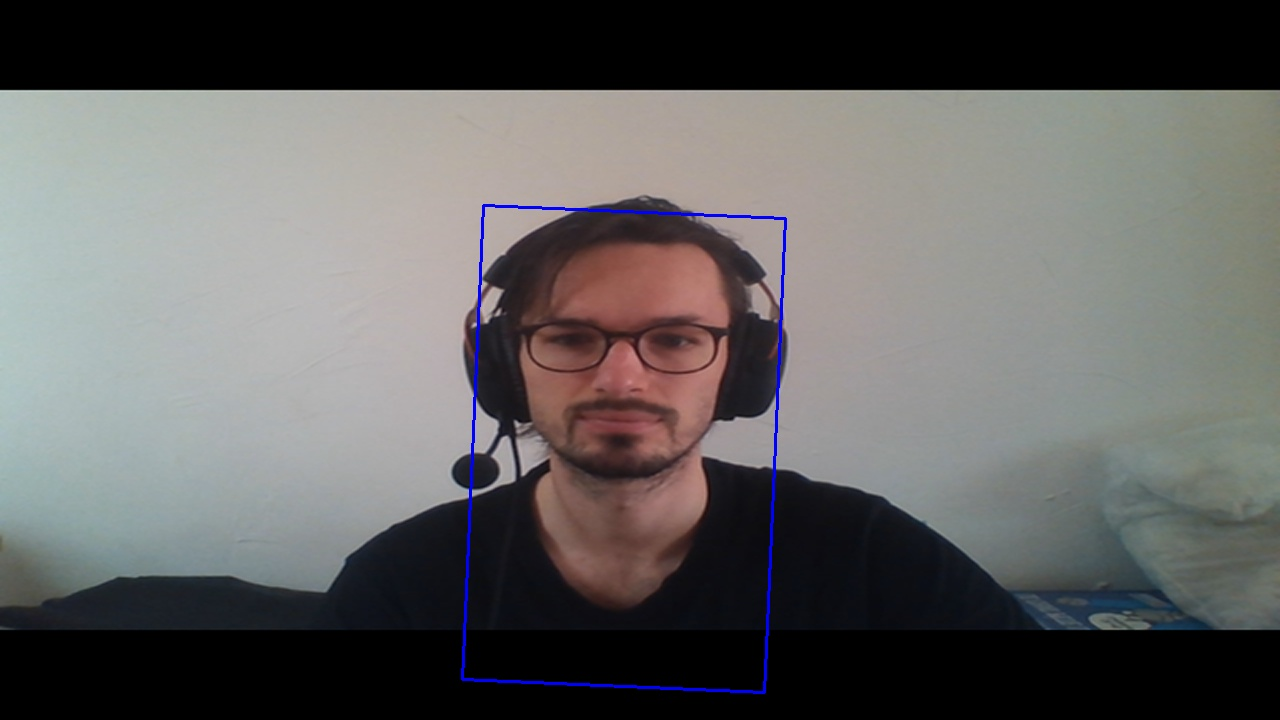
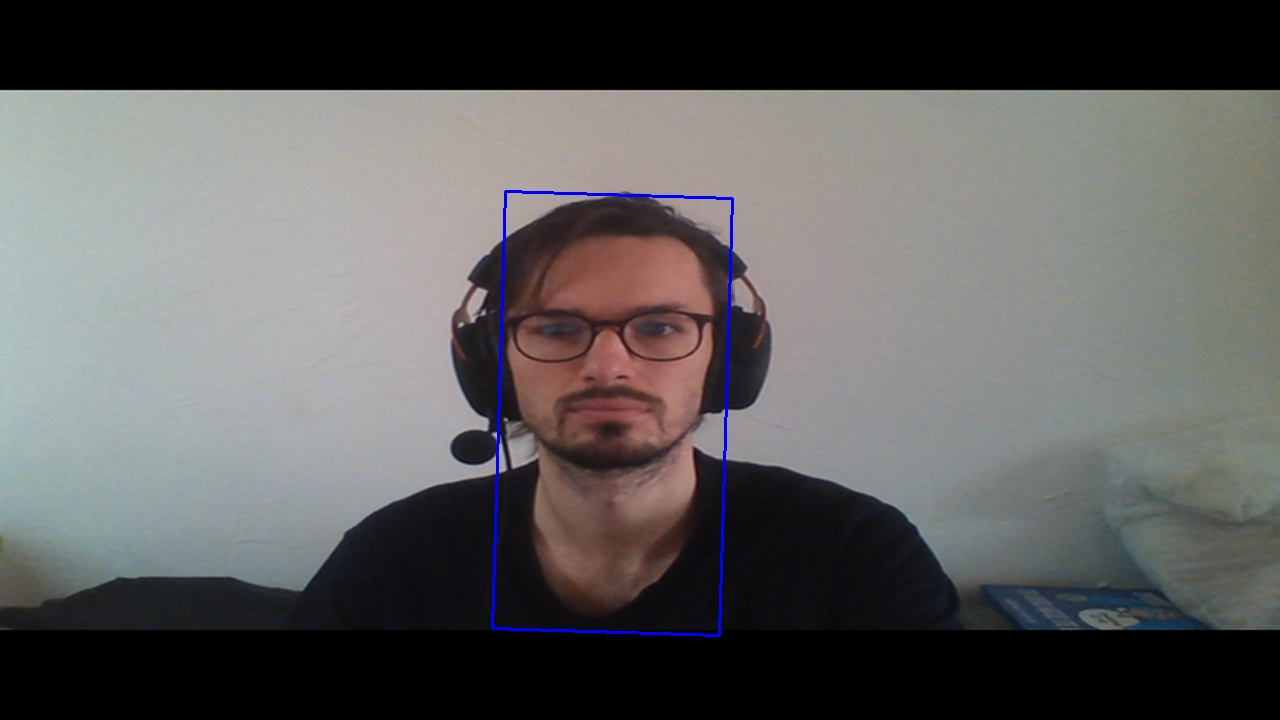
Modification de __init__.py

diff --git a/pretraitement/__init__.py b/pretraitement/__init__.py
@@ -8,13 +8,7 @@ Created on Tue May  5 10:10:18 2020
 import numpy as np 
 import cv2
 
-def pretraitement():
-    # read video 
-    cap = cv2.VideoCapture(0) 
-    # retrieve the very first  
-    # frame from the video
-    _, frame = cap.read()
-    
+def pretraitement(frame):    
        
     # set the region for the 
     # tracking window p, q, r, s 
@@ -46,9 +40,8 @@ def pretraitement():
     i = 0
     while(i<50):
         i = i+1
-        _, frame = cap.read()
-        frame = cv2.flip(frame, 1)
-        frame = cv2.resize(frame, (1280, 720), fx = 0, fy = 0, interpolation = cv2.INTER_CUBIC) 
+        #frame = cv2.flip(frame, 1)
+        #frame = cv2.resize(frame, (1280, 720), fx = 0, fy = 0, interpolation = cv2.INTER_CUBIC) 
         
         # convert BGR to HSV format 
         hsv = cv2.cvtColor(frame, cv2.COLOR_BGR2HSV)
@@ -64,12 +57,12 @@ def pretraitement():
         #img2 = cv2.rectangle(frame, (x, y), (x + w*2, y + h*2), 255, 2) 
         pts = cv2.boxPoints(ret)
         pts = np.int0(pts)
-        img2 = cv2.polylines(frame,[pts],True, 255,2)
+        #img2 = cv2.polylines(frame,[pts],True, 255,2)
           
         # show results 
         #cv2.imshow('tracker', img2)
        
-    cv2.imwrite(filename='saved_img-final_MS.jpg', img=img2)
+    #cv2.imwrite(filename='saved_img-final_MS.jpg', img=img2)
     
     x = min(pts[0][0],pts[1][0],pts[2][0],pts[3][0])
     y = min(pts[0][1],pts[1][1],pts[2][1],pts[3][1])
@@ -77,9 +70,9 @@ def pretraitement():
     h = max(pts[0][1],pts[1][1],pts[2][1],pts[3][1])
     img3 = frame[y:h,x:w]
     cv2.imwrite(filename='Image_main.jpg', img=img3)
-       
-    # release cap object 
-    cap.release() 
       
     # destroy all opened windows 
-    cv2.destroyAllWindows() 
+    cv2.destroyAllWindows()
+
+frame = cv2.imread("./image_test.jpg")
+pretraitement(frame)

diff --git a/Test_Mean_shift.py b/Test_Mean_shift.py
@@ -66,6 +66,9 @@ while(True):
    
     frame = cv2.resize(frame, (1280, 720), fx = 0, fy = 0, interpolation = cv2.INTER_CUBIC) 
     
+    cv2.imwrite(filename='image_test.jpg', img=frame)
+    
+    
     # convert BGR to HSV format 
     hsv = cv2.cvtColor(frame, cv2.COLOR_BGR2HSV)
     cv2.imshow('hsv', hsv)
